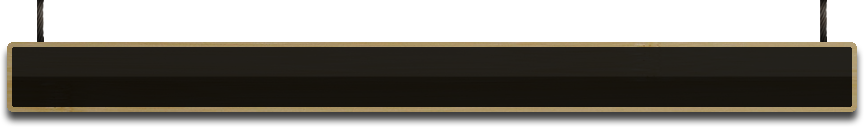
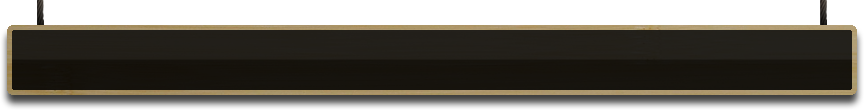
index.html: removed homepage content into home.html and inline CSS into style.css
nav-bg.png: cropped 17px from the top

urbandev-home.js: better comments, improved logo pulse function, changed initial logo animation

diff --git a/index.html b/index.html
@@ -4,48 +4,12 @@
     <meta http-equiv="Content-Type" content="text/html;charset=utf-8" />
     <title>Urban Development - Website design and development solutions.</title>
     <link rel="shortcut icon" type="image/x-icon" href="favicon.ico"/>
+    <link rel="stylesheet" href="style.css" type="text/css" media="screen" />
     <script type="text/javascript" src="http://ajax.googleapis.com/ajax/libs/jquery/1.4.2/jquery.min.js"></script>
     <script type="text/javascript" src="ga.js"></script>
-    <style type="text/css">
-      body{margin:0; background-color: #141414; font-family:Verdana, Sans-Serif;}
-      body * {margin:0; padding:0; border:0; font:normal 15px Helvetica;}
-      body a{text-decoration:none;outline:none;}
-      body a img{border:none;}
-      #page-container{display:block; position:relative; margin:0px auto; width:100%; height:420px; overflow:hidden; background: transparent url(img/bg.jpg) repeat; top:-16px}
-      #content-wrap{display:block; position:relative; margin:0px auto; width:960px; top:-110px;overflow:hidden;}
-      #home-content{display:block; position:relative; height:410px; width:960px; margin:0px auto;}
-      #top-pane{background: transparent url(img/orange-glow.png) center bottom repeat-x; margin:0px; display:block; position:relative; width:100%; height:65px; z-index:30;}
-      #top-pane #top-banner{width:960px;margin:0px auto;text-indent:75px;}
-      #top-pane #top-banner a#top-logo{margin:10px 0px;display:block;}
-      #menu-wrap{display:block; position:relative; z-index:32; margin:0px auto; width:960px; height:110px; overflow:hidden;}
-      #menu-wrap ul#menu{position:absolute; left: 52px; top:-17px; background: transparent url(img/nav-bg.png) top left repeat-x; display:block;margin:0px auto; list-style:none; width:864px; height:77px; padding:50px 0px 0px 0px; text-align:center;}
-      #menu-wrap ul#menu li{display:inline; text-align:center; margin:50px 10px 0px 10px;}
-      #menu-wrap ul#menu li a{color:#ffae00; font:normal 15px Helvetica; line-height:60px; text-transform:uppercase;}
-      #urbandev-logo{background: transparent url(img/header-logo.png) 380px 35px no-repeat;width:960px; height:318px; position:absolute; left:0px; top:-400px; text-align:center; overflow:hidden; z-index:5;}
-      #urbandev-logo-glow{background: transparent url(img/header-logo-glow.png) center 0px no-repeat;width:960px; height:305px; position:absolute; left:0px; top:0px;}  
-      #urbandev-logo h2{width:960px; position:absolute; left:0px; margin:0px; font-weight:bold; font-size: 20px; font-family: Helvetica, sans-serif; color:#FFF; text-align:center;}
-      #urbandev-logo .slogan{text-indent:-9999px; overflow:hidden; background: transparent url(img/slogan.png) center center no-repeat; top:350px;}
-      #page-content{background-color: #000;display: none;height: 400px;margin: 120px auto 0px auto;position: relative;width: 900px;}
-      #bottom-pane{background: transparent url(img/orange-glow.png) repeat-x; margin:0px; display:block; position:relative; width:100%; height:230px; padding:30px 0px 0px 0px; z-index:30; top:-32px;}
-      #bottom-pane #footer-menu{background: transparent url(img/footer.png) repeat-x; margin:0px; display:block; position:relative; width:864px; height:225px; margin:0px auto;padding:20px 0px 0px 0px;}
-      #bottom-pane #footer-menu .menu{border-right:#3c2d0b;float:left; width:150px;}
-      #bottom-pane #footer-menu .our-story{background: transparent url(img/our-story-bg.png) repeat-x; width:308px; height:200px; list-style:none; padding: 10px 20px 0px 20px; margin:5px 13px 0px 10px; border-right:#3c2d0b;float:left;}
-      #bottom-pane #footer-menu h2.footer-label{font:bold 13px helvetica;color:#805700;margin:10px 0px 0px 0px; text-transform:uppercase;}
-      #bottom-pane #footer-menu .our-story h2.footer-label{font:bold 13px helvetica;color:#b3b3b3;margin:0px 0px 0px 0px; text-transform:uppercase;}
-      #bottom-pane #footer-menu .our-story p{font:normal 12px helvetica; line-height:20px; color:#999999;margin:0px;}
-      #bottom-pane #footer-menu .menu ul{list-style:none; padding: 0px; margin:0px;}
-      #bottom-pane #footer-menu .menu ul li {height:20px;}
-      #bottom-pane #footer-menu .menu ul li a{font:normal 12px helvetica; line-height:20px; color:#734e00;white-space:nowrap;}
-      #bottom-pane #footer-menu .menu.bottom-left , #bottom-pane #footer-menu .menu.bottom-right {width:300px; margin:10px 0px 0px 0px;}
-      #bottom-pane #footer-menu .menu.bottom-right {width:150px;}
-      #bottom-pane #footer-menu .menu.bottom-left ul li, #bottom-pane #footer-menu .menu.bottom-right ul li {display:inline;height:20px;float:left;}
-      #bottom-pane #footer-menu .menu.bottom-left ul li a, #bottom-pane #footer-menu .menu.bottom-right ul li a{display:block; width:150px;height:50px; white-space:nowrap;text-indent:-999px;}
-      #bottom-pane #footer-menu .menu.bottom-left ul li a.twitter-link{background: transparent url(img/twitter.png) no-repeat;}
-      #bottom-pane #footer-menu .menu.bottom-left ul li a.github-link{background: transparent url(img/github.png) no-repeat;}
-      #bottom-pane #footer-menu .menu.bottom-right ul li a.just199-link{background: transparent url(img/just199.png) no-repeat;}
-    </style>
     <!--[if IE]>
       <style type="text/css">
+        // TODO: make the glow work in IE to some extent...
         #urbandev-logo-glow{display:none;}
       </style>
     <![endif]-->
@@ -59,7 +23,7 @@
     <div id="page-container">
       <div id="menu-wrap">
         <ul id="menu">
-          <li><a href="test.html#500">Home</a></li>
+          <li><a href="home.html#420">Home</a></li>
           <li><a href="#our-services">Our Services</a></li>
           <li><a href="#our-portfolio">Our Portfolio</a></li>
           <li><a href="#current-projects">Current Projects</a></li>
@@ -67,12 +31,6 @@
         </ul>
       </div>
       <div id="content-wrap">
-        <div id="home-content">
-          <div id="urbandev-logo">
-            <div id="urbandev-logo-glow"></div>
-            <h2 class="slogan">Website design and development solutions.</h2>
-          </div>
-        </div>
         <div id="page-content">
         </div>
       </div>

diff --git a/style.css b/style.css
@@ -1,0 +1,35 @@
+body{margin:0; background-color: #141414; font-family:Verdana, Sans-Serif;}
+body * {margin:0; padding:0; border:0; font:normal 15px Helvetica;}
+body a{text-decoration:none;outline:none;}
+body a img{border:none;}
+#page-container{display:block; position:relative; margin:0px auto; width:100%; height:420px; overflow:hidden; background: transparent url(img/bg.jpg) repeat; top:-16px}
+#content-wrap{display:block; position:relative; margin:0px auto; width:960px; top:-110px;overflow:hidden;}
+#page-content{display: none;position:relative; height:410px; width:960px; margin:0px auto;}
+#top-pane{background: transparent url(img/orange-glow.png) center bottom repeat-x; margin:0px; display:block; position:relative; width:100%; height:65px; z-index:30;}
+#top-pane #top-banner{width:960px;margin:0px auto;text-indent:75px;}
+#top-pane #top-banner a#top-logo{margin:10px 0px;display:block;}
+#menu-wrap{display:block; position:relative; z-index:32; margin:0px auto; width:960px; height:110px; overflow:hidden;}
+#menu-wrap ul#menu{position:absolute; left: 52px; background: transparent url(img/nav-bg.png) top left repeat-x; display:block;margin:0px auto; list-style:none; width:864px; height:77px; padding:33px 0px 0px 0px; text-align:center;}
+#menu-wrap ul#menu li{display:inline; text-align:center; margin:50px 10px 0px 10px;}
+#menu-wrap ul#menu li a{color:#ffae00; font:normal 15px Helvetica; line-height:60px; text-transform:uppercase;}
+#urbandev-logo{background: transparent url(img/header-logo.png) 380px 35px no-repeat;width:960px; height:318px; position:absolute; left:0px; top:95px; text-align:center; overflow:hidden; z-index:5;}
+#urbandev-logo-glow{background: transparent url(img/header-logo-glow.png) center 0px no-repeat;width:960px; height:305px; position:absolute; left:0px; top:0px;}  
+#urbandev-logo h2{width:960px; position:absolute; left:0px; margin:0px; font-weight:bold; font-size: 20px; font-family: Helvetica, sans-serif; color:#FFF; text-align:center;}
+#urbandev-logo .slogan{text-indent:-9999px; overflow:hidden; background: transparent url(img/slogan.png) center center no-repeat; top:350px;}
+#bottom-pane{background: transparent url(img/orange-glow.png) repeat-x; margin:0px; display:block; position:relative; width:100%; height:230px; padding:30px 0px 0px 0px; z-index:30; top:-32px;}
+#bottom-pane #footer-menu{background: transparent url(img/footer.png) repeat-x; margin:0px; display:block; position:relative; width:864px; height:225px; margin:0px auto;padding:20px 0px 0px 0px;}
+#bottom-pane #footer-menu .menu{border-right:#3c2d0b;float:left; width:150px;}
+#bottom-pane #footer-menu .our-story{background: transparent url(img/our-story-bg.png) repeat-x; width:308px; height:200px; list-style:none; padding: 10px 20px 0px 20px; margin:5px 13px 0px 10px; border-right:#3c2d0b;float:left;}
+#bottom-pane #footer-menu h2.footer-label{font:bold 13px helvetica;color:#805700;margin:10px 0px 0px 0px; text-transform:uppercase;}
+#bottom-pane #footer-menu .our-story h2.footer-label{font:bold 13px helvetica;color:#b3b3b3;margin:0px 0px 0px 0px; text-transform:uppercase;}
+#bottom-pane #footer-menu .our-story p{font:normal 12px helvetica; line-height:20px; color:#999999;margin:0px;}
+#bottom-pane #footer-menu .menu ul{list-style:none; padding: 0px; margin:0px;}
+#bottom-pane #footer-menu .menu ul li {height:20px;}
+#bottom-pane #footer-menu .menu ul li a{font:normal 12px helvetica; line-height:20px; color:#734e00;white-space:nowrap;}
+#bottom-pane #footer-menu .menu.bottom-left , #bottom-pane #footer-menu .menu.bottom-right {width:300px; margin:10px 0px 0px 0px;}
+#bottom-pane #footer-menu .menu.bottom-right {width:150px;}
+#bottom-pane #footer-menu .menu.bottom-left ul li, #bottom-pane #footer-menu .menu.bottom-right ul li {display:inline;height:20px;float:left;}
+#bottom-pane #footer-menu .menu.bottom-left ul li a, #bottom-pane #footer-menu .menu.bottom-right ul li a{display:block; width:150px;height:50px; white-space:nowrap;text-indent:-999px;}
+#bottom-pane #footer-menu .menu.bottom-left ul li a.twitter-link{background: transparent url(img/twitter.png) no-repeat;}
+#bottom-pane #footer-menu .menu.bottom-left ul li a.github-link{background: transparent url(img/github.png) no-repeat;}
+#bottom-pane #footer-menu .menu.bottom-right ul li a.just199-link{background: transparent url(img/just199.png) no-repeat;}

diff --git a/urbandev-home.js b/urbandev-home.js
@@ -1,47 +1,59 @@
-// Define opacity for header element (MS filter properties)
-$('#urbandev-logo, #urbandev-logo-glow, #urbandev-logo .slogan').css('opacity', 0);
-
-// Begin animation functions
-$('#urbandev-logo').animate(
- {
- opacity: 0.2,
- top: [100, 'swing']
- },
- 1500
- ).animate(
-   {
-     opacity: 0.6
-   },
-   1000,
-   function(){
-    $('h2.slogan').animate({top: [275, 'swing'], opacity: 0.6}, 500, function(){
-		    $('#urbandev-logo-glow').animate({opacity: 0.2},150, function(){
-		    $('#urbandev-logo-glow').animate({opacity: 0.1},50).animate({opacity: 0.4},1000);			
-		});
-      var t=setInterval("logoPulse();",8000);
-    });
-  }
-);      
-
-function logoPulse(){$('#urbandev-logo-glow').animate({opacity: 0.2},500).animate({opacity: 0.4},1000);};
-
-// End animation functions
-
-// Content slider
+// Content handling
 $('#menu-wrap ul#menu li a').bind('click', function() {
 	var url = $(this).attr("href");
-	loadContent(url, 545);
+	// need check to verify relative URL
+	var height = $(this).attr("hash").substring(1);
+	// bad asumption: hash is always height, always a numeric value
+	loadContent(url, height);
+	// Do I want this to load based on URL or Hash? (#home vs. home.html#400)
 	return false
 });
 
-function loadContent(url, height){
-	$('#home-content').fadeOut('fast', function(){
-		$('#home-content').hide().addClass('hidde');
-		$('#page-container').animate({height: height},2500, function(){
+function loadContent(url, height){	
+	$('#page-content').fadeOut('fast', function(){
+		$('#page-container').animate({height: height},1000, function(){
 			$('#page-content').load(url, function() {
 				$('#page-content').fadeIn('fast');
+				if(url = "home.html#400"){logoInit()};
 			});
 		})
 	})
 }
-// End content slider
+
+$('#page-content').load('home.html', function() {
+	$('#page-content').fadeIn('fast');
+	logoInit();
+});
+// End content handling
+
+// Begin animation functions
+var logopulseTimer = 0;
+function logoInit(){
+	// Define opacity for header element (MS filter properties)
+	$('#urbandev-logo, #urbandev-logo-glow, #urbandev-logo .slogan').css('opacity', 0);
+
+	// Animate UD logo
+	$('#urbandev-logo').animate(
+	   { opacity: 0.6
+	   },
+	   500,
+	   function(){
+	    $('h2.slogan').animate({top: [275, 'swing'], opacity: 0.6}, 500, function(){
+				$('#urbandev-logo-glow').animate({opacity: 0.2},150, function(){
+					$('#urbandev-logo-glow').animate({opacity: 0.1},50).animate({opacity: 0.4},1000);			
+				});
+				logoPulse();
+	    });
+	  }
+	)
+}
+
+function logoPulse()
+{
+  function pulseAnimation()
+  {
+		$('#urbandev-logo-glow').animate({opacity: 0.2},500).animate({opacity: 0.4},1000);
+  }
+	if(!logoTimer){ var logoTimer = setTimeout(pulseAnimation, 5000)};
+}
+// End animation functions

diff --git a/home.html b/home.html
@@ -1,0 +1,4 @@
+<div id="urbandev-logo">
+    <div id="urbandev-logo-glow"></div>
+    <h2 class="slogan">Website design and development solutions.</h2>
+</div>
